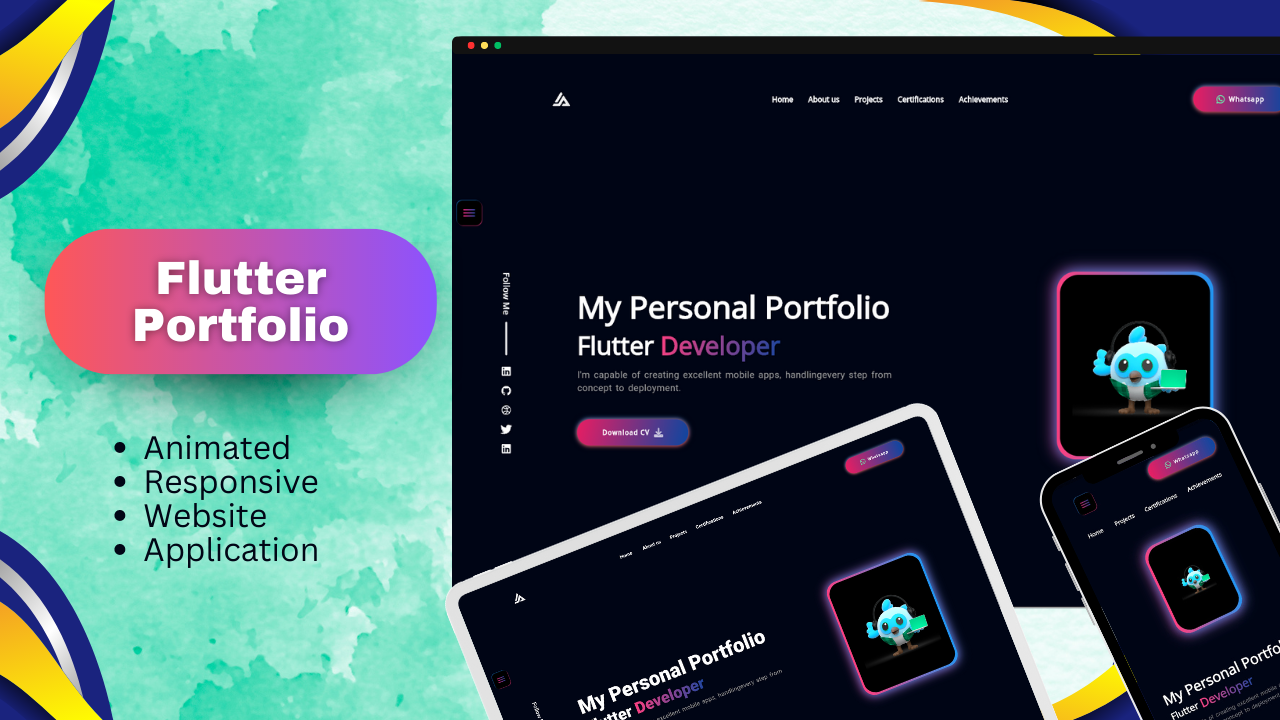
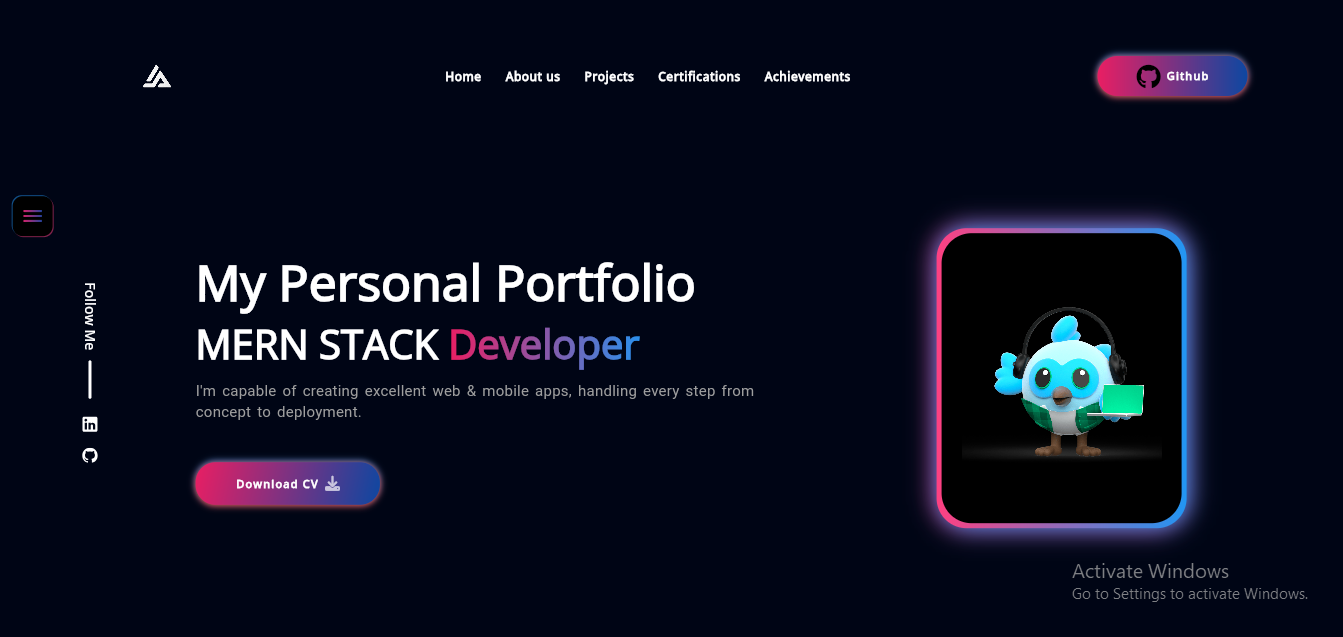
New changes added

diff --git a/lib/view/intro/components/combine_subtitle.dart b/lib/view/intro/components/combine_subtitle.dart
@@ -12,68 +12,42 @@ class CombineSubtitleText extends StatelessWidget {
       mainAxisAlignment: MainAxisAlignment.start,
       children: [
         const Responsive(
-          desktop: AnimatedSubtitleText(
-              start: 30, end: 40, text: 'Flutter '),
-          largeMobile: AnimatedSubtitleText(
-              start: 30, end: 25, text: 'Flutter '),
-          mobile: AnimatedSubtitleText(
-              start: 25, end: 20, text: 'Flutter '),
-          tablet: AnimatedSubtitleText(
-              start: 40, end: 30, text: 'Flutter '),
+          desktop:
+              AnimatedSubtitleText(start: 30, end: 40, text: 'MERN STACK '),
+          largeMobile:
+              AnimatedSubtitleText(start: 30, end: 25, text: 'MERN STACK '),
+          mobile: AnimatedSubtitleText(start: 25, end: 20, text: 'MERN STACK '),
+          tablet: AnimatedSubtitleText(start: 40, end: 30, text: 'MERN STACK '),
         ),
         (kIsWeb && Responsive.isLargeMobile(context)
             ? const Responsive(
-          desktop: AnimatedSubtitleText(
-              start: 30,
-              end: 40,
-              text: 'Developer ',
-              gradient: true),
-          largeMobile: AnimatedSubtitleText(
-              start: 30,
-              end: 25,
-              text: 'Developer ',
-              gradient: true),
-          mobile: AnimatedSubtitleText(
-              start: 25,
-              end: 20,
-              text: 'Developer ',
-              gradient: true),
-          tablet: AnimatedSubtitleText(
-              start: 40,
-              end: 30,
-              text: 'Developer ',
-              gradient: true),
-        )
+                desktop: AnimatedSubtitleText(
+                    start: 30, end: 40, text: 'Developer ', gradient: true),
+                largeMobile: AnimatedSubtitleText(
+                    start: 30, end: 25, text: 'Developer ', gradient: true),
+                mobile: AnimatedSubtitleText(
+                    start: 25, end: 20, text: 'Developer ', gradient: true),
+                tablet: AnimatedSubtitleText(
+                    start: 40, end: 30, text: 'Developer ', gradient: true),
+              )
             : ShaderMask(
-          shaderCallback: (bounds) {
-            return const LinearGradient(colors: [
-              Colors.pink,
-              Colors.blue,
-            ]).createShader(bounds);
-          },
-          child: const Responsive(
-            desktop: AnimatedSubtitleText(
-                start: 30,
-                end: 40,
-                text: 'Developer ',
-                gradient: false),
-            largeMobile: AnimatedSubtitleText(
-                start: 30,
-                end: 25,
-                text: 'Developer ',
-                gradient: false),
-            mobile: AnimatedSubtitleText(
-                start: 25,
-                end: 20,
-                text: 'Developer ',
-                gradient: true),
-            tablet: AnimatedSubtitleText(
-                start: 40,
-                end: 30,
-                text: 'Developer ',
-                gradient: false),
-          ),
-        ))
+                shaderCallback: (bounds) {
+                  return const LinearGradient(colors: [
+                    Colors.pink,
+                    Colors.blue,
+                  ]).createShader(bounds);
+                },
+                child: const Responsive(
+                  desktop: AnimatedSubtitleText(
+                      start: 30, end: 40, text: 'Developer ', gradient: false),
+                  largeMobile: AnimatedSubtitleText(
+                      start: 30, end: 25, text: 'Developer ', gradient: false),
+                  mobile: AnimatedSubtitleText(
+                      start: 25, end: 20, text: 'Developer ', gradient: true),
+                  tablet: AnimatedSubtitleText(
+                      start: 40, end: 30, text: 'Developer ', gradient: false),
+                ),
+              ))
       ],
     );
   }

diff --git a/lib/view/main/components/connect_button.dart b/lib/view/main/components/connect_button.dart
@@ -12,11 +12,10 @@ class ConnectButton extends StatelessWidget {
       padding: const EdgeInsets.symmetric(vertical: defaultPadding),
       child: InkWell(
         onTap: () {
-          const String phoneNumber = "00923342652039"; // Your phone number
-          const String message =
-              "Hello I would like to contact you"; // Custom message
-          final Uri url = Uri.parse(
-              "https://wa.me/$phoneNumber?text=${Uri.encodeComponent(message)}");
+          // const String phoneNumber = "00923342652039"; // Your phone number
+          // const String message =
+          //     "Hello I would like to contact you"; // Custom message
+          final Uri url = Uri.parse("https://github.com/AshalAnsari");
           launchUrl(Uri.parse('$url'));
         },
         borderRadius: BorderRadius.circular(defaultPadding + 10),
@@ -44,13 +43,13 @@ class ConnectButton extends StatelessWidget {
               crossAxisAlignment: CrossAxisAlignment.center,
               children: [
                 const Icon(
-                  FontAwesomeIcons.whatsapp,
-                  color: Colors.greenAccent,
-                  size: 15,
+                  FontAwesomeIcons.github,
+                  color: Colors.black,
+                  size: 25,
                 ),
                 const SizedBox(width: defaultPadding / 4),
                 Text(
-                  'Whatsapp',
+                  'Github',
                   style: Theme.of(context).textTheme.labelSmall!.copyWith(
                       color: Colors.white,
                       letterSpacing: 1.2,

diff --git a/lib/view/main/components/navigation_bar.dart b/lib/view/main/components/navigation_bar.dart
@@ -4,6 +4,7 @@ import 'package:flutter_portfolio/view/intro/components/side_menu_button.dart';
 import 'package:flutter_portfolio/view/main/components/connect_button.dart';
 import '../../../res/constants.dart';
 import 'navigation_button_list.dart';
+
 class TopNavigationBar extends StatelessWidget {
   const TopNavigationBar({super.key});
   @override
@@ -15,12 +16,20 @@ class TopNavigationBar extends StatelessWidget {
           const Spacer(),
           Padding(
             padding: const EdgeInsets.all(defaultPadding),
-            child:!Responsive.isLargeMobile(context)? Image.asset('assets/images/triange_icon.png') : MenuButton(onTap: () => Scaffold.of(context).openDrawer(),),
+            child: !Responsive.isLargeMobile(context)
+                ? Image.asset('assets/images/triange_icon.png')
+                : MenuButton(
+                    onTap: () => Scaffold.of(context).openDrawer(),
+                  ),
           ),
           // if(Responsive.isLargeMobile(context)) MenuButton(),
-          const Spacer(flex: 2,),
-          if(!Responsive.isLargeMobile(context))  const NavigationButtonList(),
-          const Spacer(flex: 2,),
+          const Spacer(
+            flex: 2,
+          ),
+          if (!Responsive.isLargeMobile(context)) const NavigationButtonList(),
+          const Spacer(
+            flex: 2,
+          ),
           const ConnectButton(),
           const Spacer(),
         ],

diff --git a/lib/view/main/components/drawer/my_skill.dart b/lib/view/main/components/drawer/my_skill.dart
@@ -67,8 +67,6 @@ class MySKills extends StatelessWidget {
           image: 'assets/icons/flutter.png',
         ),
         AnimatedLinearProgressIndicator(
-            percentage: 0.7, title: 'Dart', image: 'assets/icons/dart.png'),
-        AnimatedLinearProgressIndicator(
             percentage: 0.7, title: 'React', image: 'assets/icons/react.png'),
         AnimatedLinearProgressIndicator(
             percentage: 0.7,
@@ -77,9 +75,17 @@ class MySKills extends StatelessWidget {
         AnimatedLinearProgressIndicator(
             percentage: 0.8, title: 'JavaScript', image: 'assets/icons/js.png'),
         AnimatedLinearProgressIndicator(
+            percentage: 0.7, title: 'Node', image: 'assets/icons/node.png'),
+        AnimatedLinearProgressIndicator(
+            percentage: 0.7, title: 'Dart', image: 'assets/icons/dart.png'),
+        AnimatedLinearProgressIndicator(
             percentage: 0.6,
             title: 'Firebase',
             image: 'assets/icons/firebase.png'),
+        AnimatedLinearProgressIndicator(
+            percentage: 0.7,
+            title: 'MongoDB',
+            image: 'assets/icons/mongodb.png'),
         AnimatedLinearProgressIndicator(
             percentage: 0.85, title: 'SQL', image: 'assets/icons/sql.png'),
         AnimatedLinearProgressIndicator(

diff --git a/lib/view/intro/components/description_text.dart b/lib/view/intro/components/description_text.dart
@@ -14,7 +14,7 @@ class AnimatedDescriptionText extends StatelessWidget {
       duration: const Duration(milliseconds: 200),
       builder: (context, value, child) {
         return Text(
-          'I\'m capable of creating excellent mobile apps, handling${Responsive.isLargeMobile(context) ? '\n' : ''}every step from ${!Responsive.isLargeMobile(context) ? '\n' : ''}concept to deployment.',
+          'I\'m capable of creating excellent web & mobile apps, handling${Responsive.isLargeMobile(context) ? '\n' : ''} every step from ${!Responsive.isLargeMobile(context) ? '\n' : ''}concept to deployment.',
           maxLines: 2,
           overflow: TextOverflow.ellipsis,
           style: TextStyle(color: Colors.grey, wordSpacing: 2, fontSize: value),

diff --git a/lib/view/main/components/drawer/knowledges.dart b/lib/view/main/components/drawer/knowledges.dart
@@ -18,10 +18,10 @@ class Knowledges extends StatelessWidget {
             style: TextStyle(color: Colors.white),
           ),
         ),
-        KnowledgeText(knowledge: 'Flutter, Dart, React'),
-        KnowledgeText(knowledge: 'React Native, Python'),
-        KnowledgeText(knowledge: 'Data Structure & Algorithms'),
-        KnowledgeText(knowledge: 'JavaScript, OOP'),
+        KnowledgeText(knowledge: 'Flutter, React, React Native'),
+        KnowledgeText(knowledge: 'JavaScript, Dart ,Python'),
+        KnowledgeText(knowledge: 'Data Structure & Algorithms, OOP'),
+        KnowledgeText(knowledge: 'MongoDB & SQL'),
         KnowledgeText(knowledge: 'Git, Github'),
       ],
     );

diff --git a/README.md b/README.md
@@ -1,10 +1,10 @@
-# Responsive Flutter Portfolio Application & Website
+# Portfolio
 
 Thank you for visiting my portfolio website repository. This Flutter-based website serves as a showcase of my skills, projects, certifications, and ways to get in touch with me. The website is designed with a strong focus on responsiveness, ensuring that it looks and works flawlessly across a range of devices, from large desktop screens to compact Android devices.
 
 ## Live Demo
 
-You can explore the live version of the website [Click to see live demo](https://hamad-anwar.github.io/Portfolio/#/).
+You can explore the live version of the website [Click to see live demo](https://ashalansari.netlify.app/).
 
 ## Screenshots
 
@@ -18,7 +18,7 @@ You can explore the live version of the website [Click to see live demo](https:/
 - [Usage Guide](#usage-guide)
 - [Contributions](#contributions)
 - [Contact Me](#contact-me)
-- [License](#license)
+<!-- - [License](#license) -->
 
 ## Key Features
 
@@ -48,7 +48,7 @@ The portfolio website is built using Flutter, a powerful open-source UI software
 To explore and interact with the portfolio website on your local machine, follow these steps:
 
 1. **Clone the Repository:**
-   git clone https://github.com/Hamad-Anwar/Flutter-Responsive-Portfolio-WebApp.git
+   git clone https://github.com/AshalAnsari/ashalansari.github.io.git
 2. **Install Dependencies:**
    flutter pub get
 3. **Run Application**
@@ -63,7 +63,6 @@ Once the website is up and running, you'll find a range of sections to explore:
 - **Certifications:** Explore my certifications, gaining insight into my professional development journey.
 - **Contact:** Reach out to me through provided contact details or social media links.
 
-
 ## Contributions
 
 I welcome contributions and suggestions from the community! If you come across any issues, have ideas for improvements, or wish to contribute in any way, feel free to open an issue or submit a pull request. Let's collaborate to make this portfolio even better!
@@ -72,13 +71,13 @@ I welcome contributions and suggestions from the community! If you come across a
 
 Your feedback and thoughts are highly valued. Feel free to connect with me through:
 
-- **Email:** rh676838@gmail.com
-- **LinkedIn:** [Hamad Anwar](https://www.linkedin.com/in/hamad-anwar)
+- **Email:** ashalansari7398@gmail.com
+- **LinkedIn:** [Ashal Ansari](https://www.linkedin.com/in/ashal-ansari-3a3a731b1/)
 
-## License
+<!-- ## License
 
 This project is licensed under the MIT License - see the [LICENSE](LICENSE) file for details.
 
----
+--- -->
 
-### Designed and developed with ❤ by [Hamad Anwar](https://www.linkedin.com/in/hamad-anwar/).
+### Designed and developed with by [Ashal Ansari](https://www.linkedin.com/in/ashal-ansari-3a3a731b1/).
